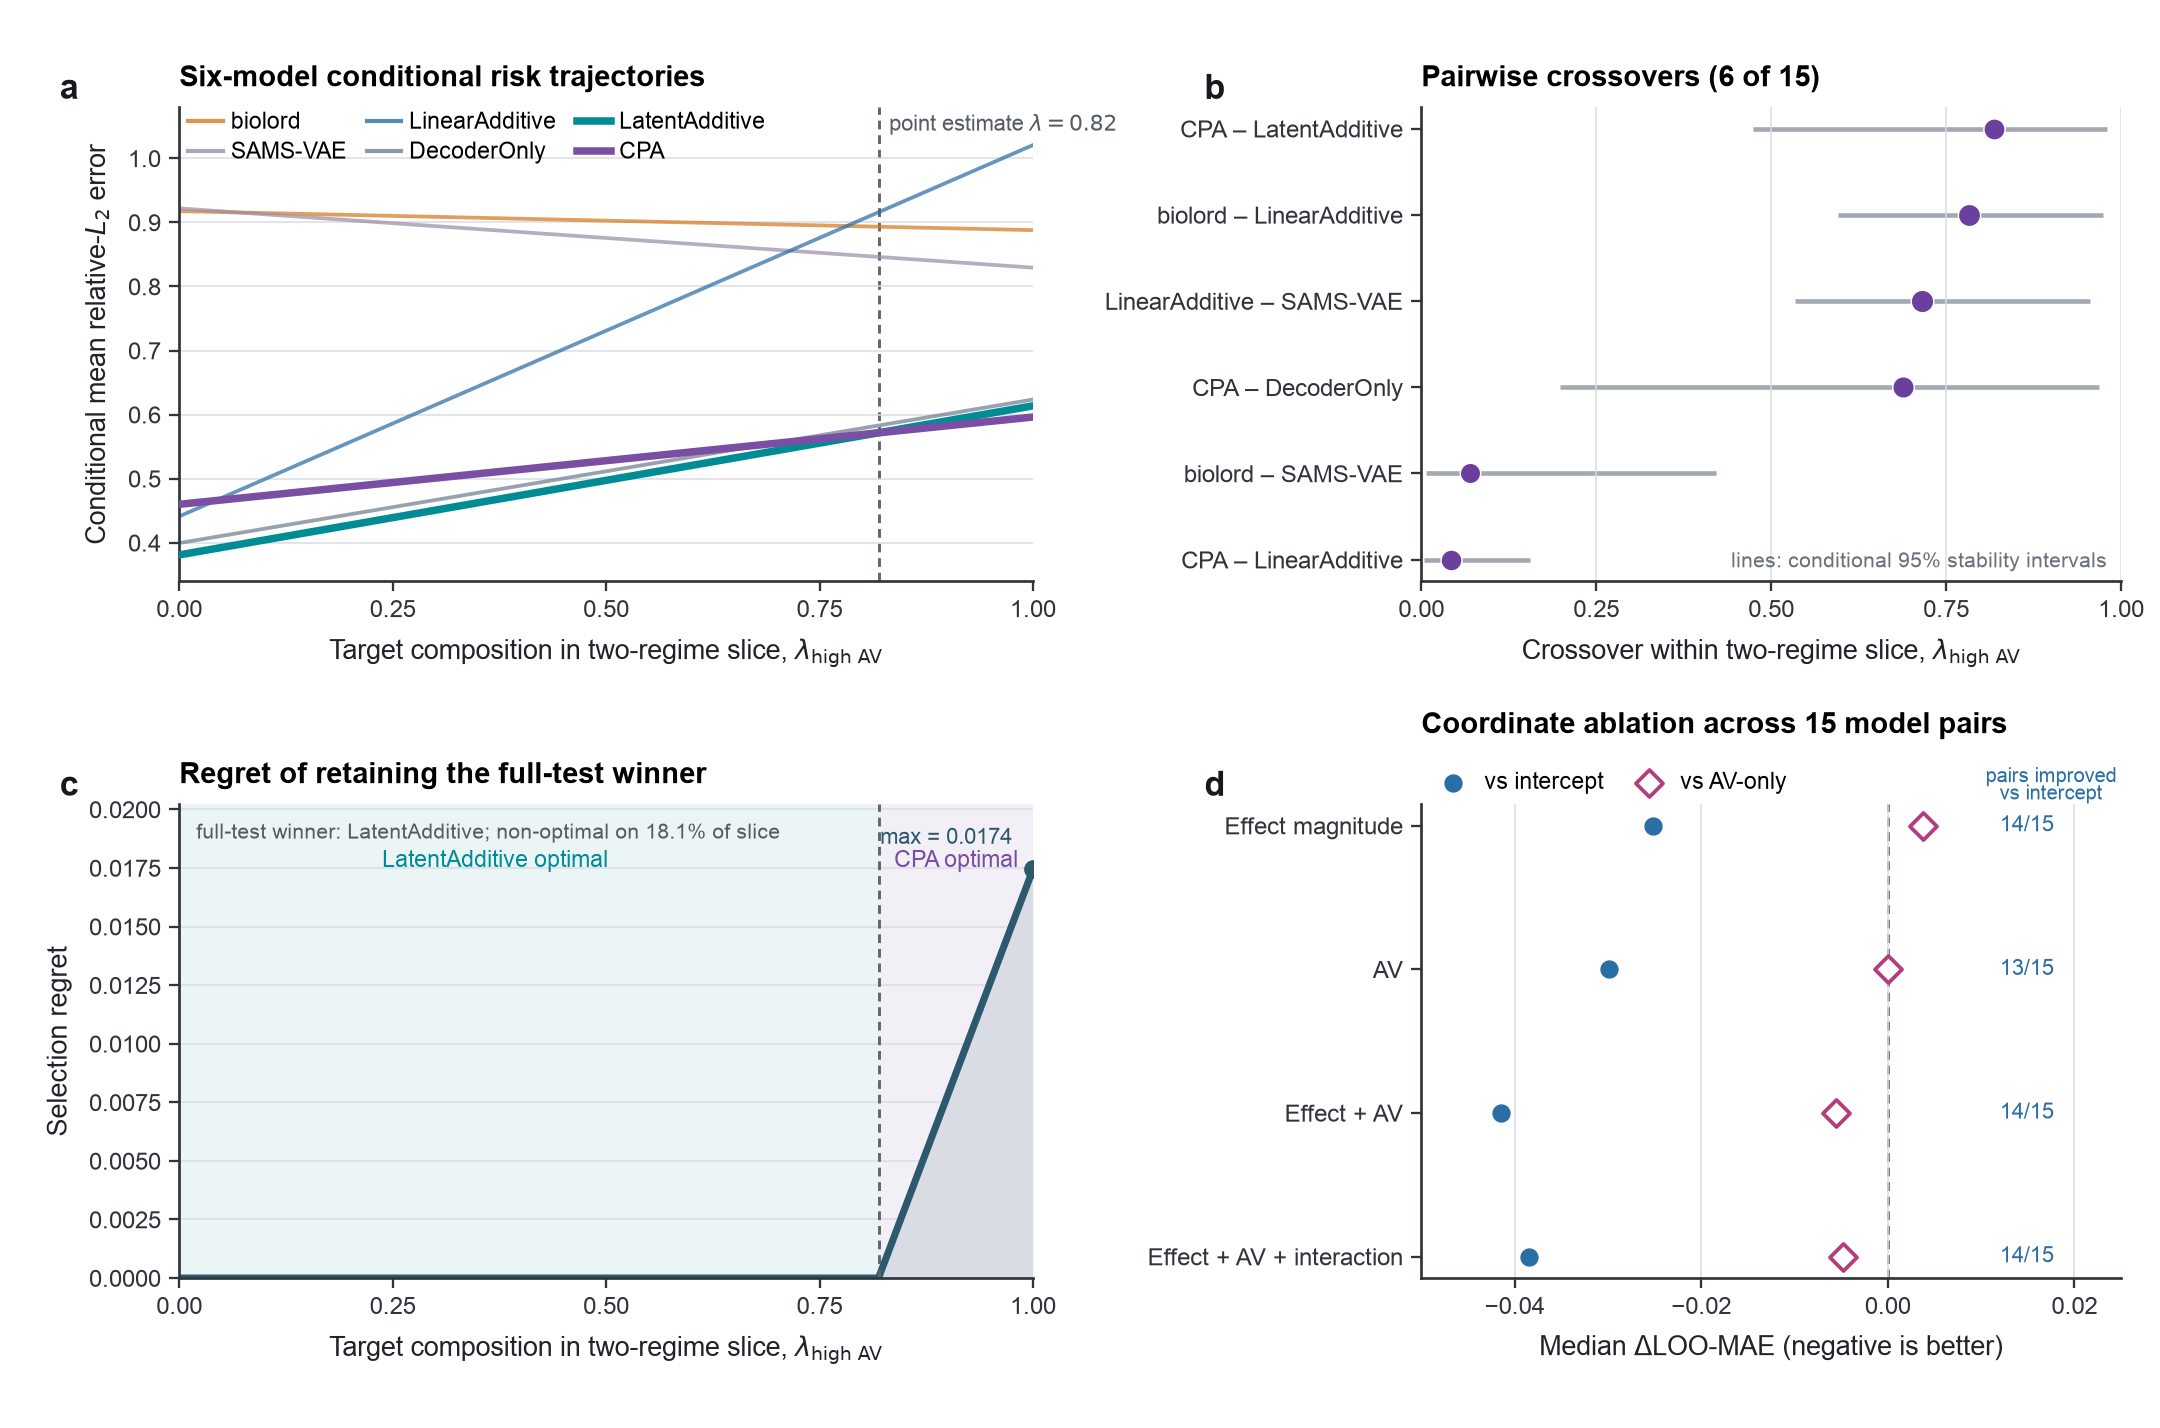
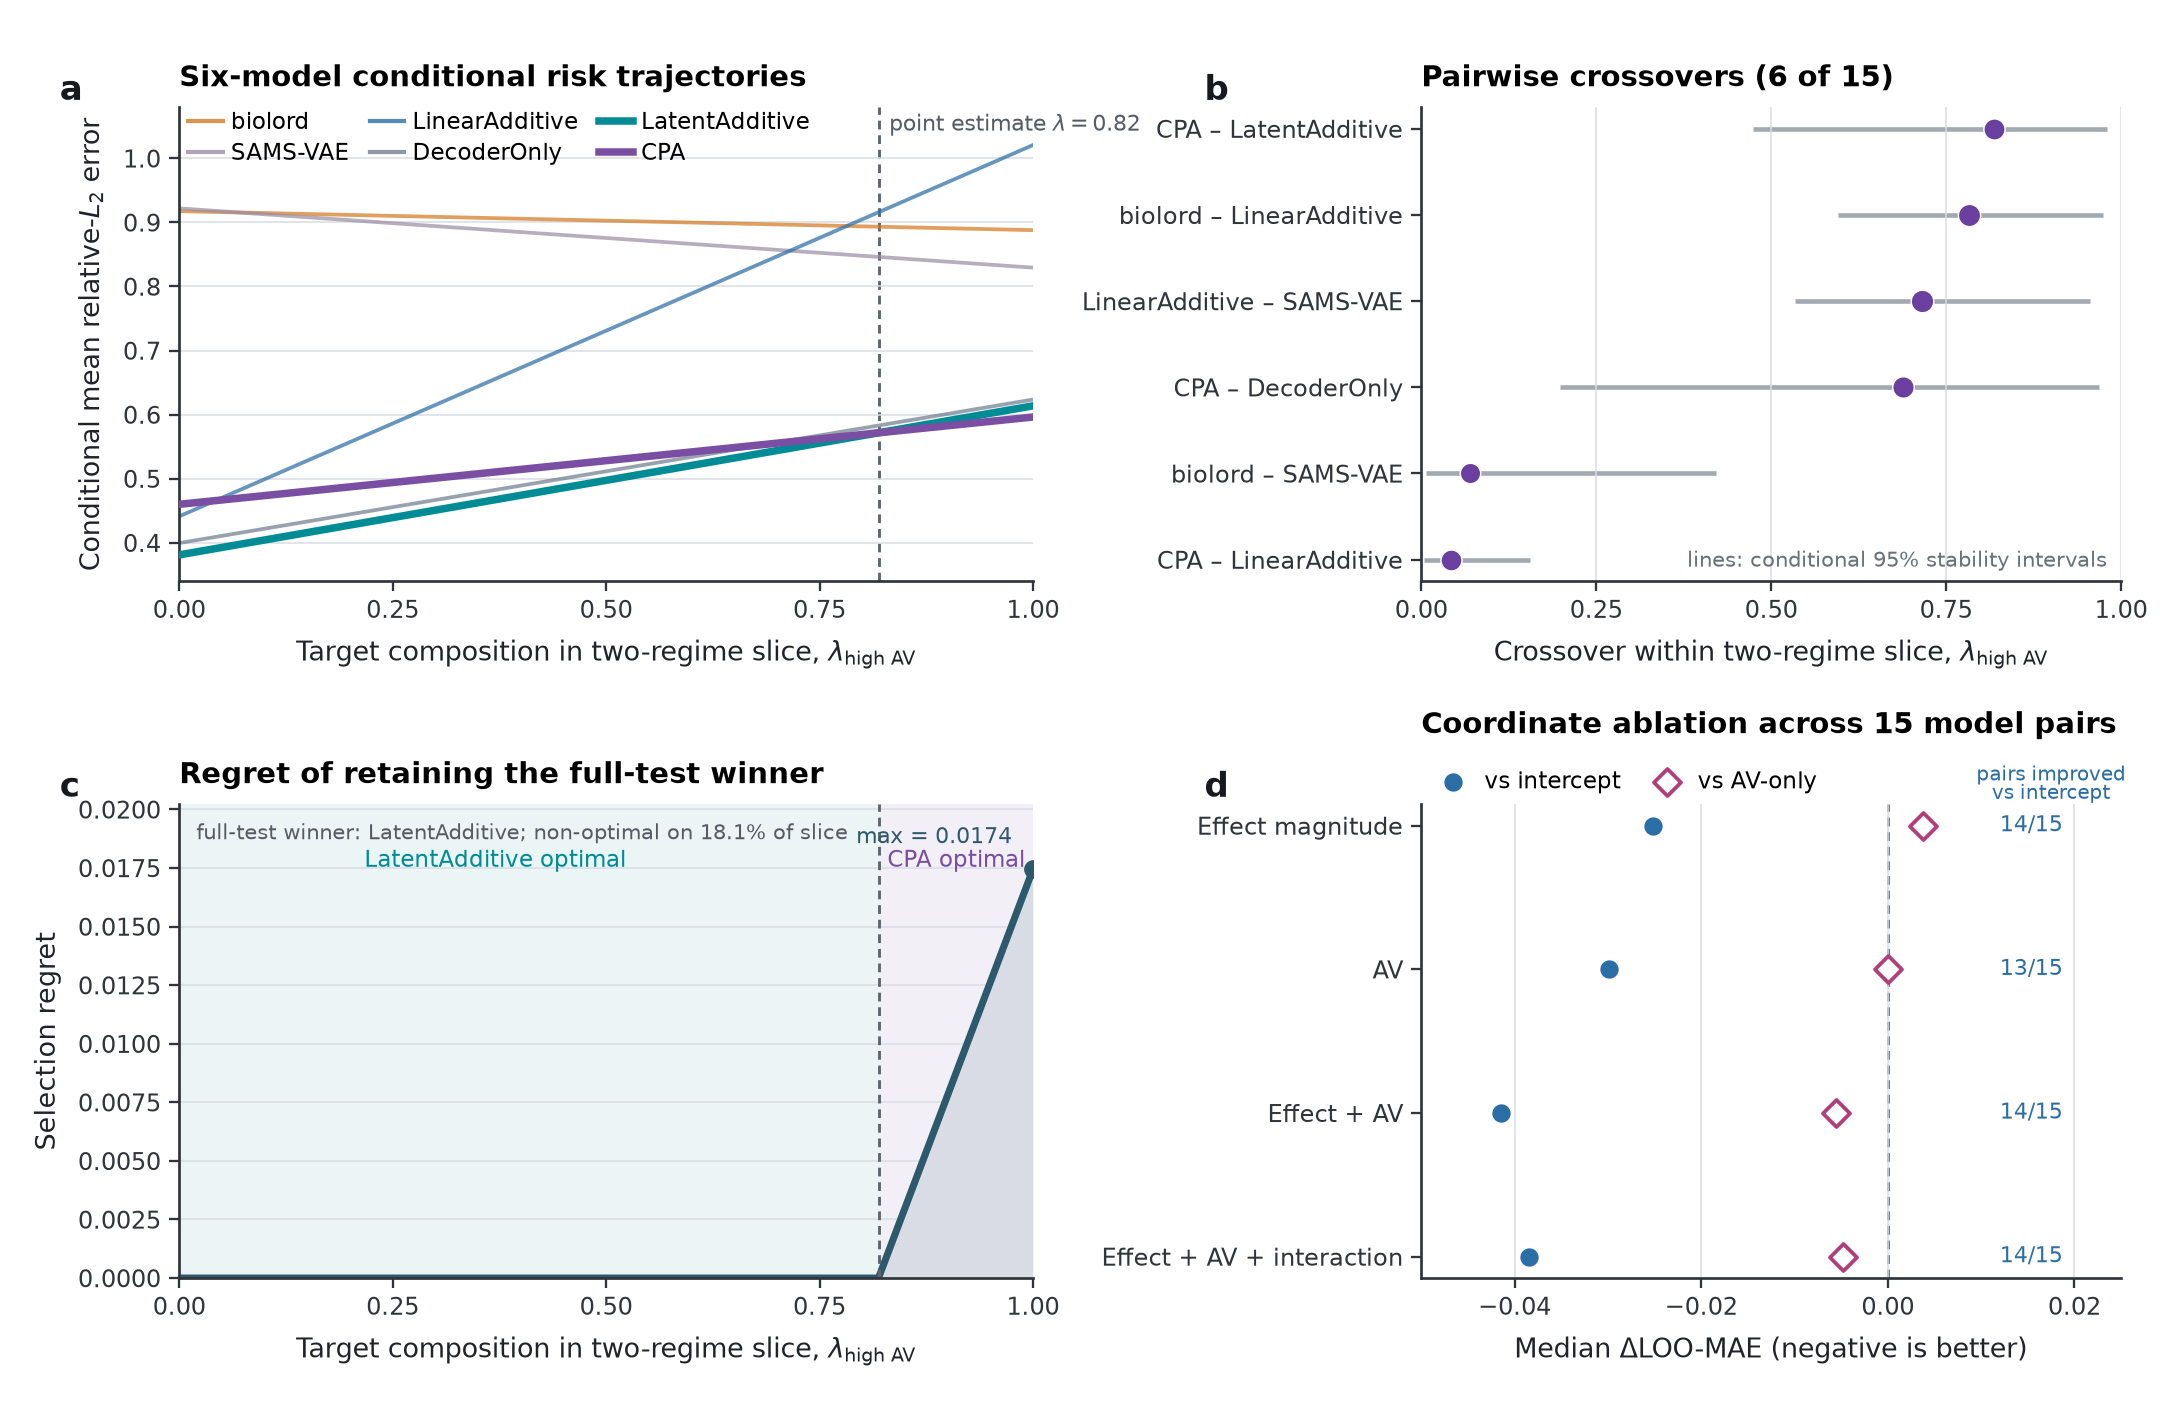
ci: make composition preview verification cross-platform

diff --git a/scripts/verify_figure_preview.py b/scripts/verify_figure_preview.py
@@ -1,0 +1,155 @@
+#!/usr/bin/env python3
+"""Verify a regenerated PNG preview by decoded visual content.
+
+PNG files are containers: byte-level equality can fail when encoders write
+different ancillary metadata, and Matplotlib can round the declared physical
+size by one pixel on different platforms.  This verifier therefore decodes the
+images, checks their dimensions against the figure contract, normalizes the
+one-pixel size variation, and compares the rendered RGB content.  It does not
+weaken the byte-exact checks applied separately to the scientific TSV outputs.
+"""
+
+from __future__ import annotations
+
+import argparse
+import json
+from pathlib import Path
+
+import numpy as np
+from PIL import Image
+
+
+EXPECTED_SIZE = (2161, 1429)
+DIMENSION_TOLERANCE_PX = 1
+NORMALIZED_WIDTH_PX = 720
+MAX_NORMALIZED_MAE = 0.02
+MIN_INK_CORRELATION = 0.95
+MAX_FOREGROUND_FRACTION_DELTA = 0.02
+
+
+class FigurePreviewError(ValueError):
+    """Raised when a rendered preview violates the visual contract."""
+
+
+def _load_rgb(path: Path) -> tuple[Image.Image, tuple[int, int]]:
+    if not path.is_file():
+        raise FigurePreviewError(f"PNG preview is missing: {path}")
+    try:
+        with Image.open(path) as source:
+            source.load()
+            size = source.size
+            rgba = source.convert("RGBA")
+    except Exception as exc:  # Pillow supplies format-specific exceptions.
+        raise FigurePreviewError(f"PNG preview cannot be decoded: {path}") from exc
+
+    background = Image.new("RGBA", rgba.size, (255, 255, 255, 255))
+    return Image.alpha_composite(background, rgba).convert("RGB"), size
+
+
+def _within_expected_size(size: tuple[int, int], expected: tuple[int, int]) -> bool:
+    return all(
+        abs(observed - declared) <= DIMENSION_TOLERANCE_PX
+        for observed, declared in zip(size, expected, strict=True)
+    )
+
+
+def _normalized_array(image: Image.Image, expected: tuple[int, int]) -> np.ndarray:
+    height = round(NORMALIZED_WIDTH_PX * expected[1] / expected[0])
+    resized = image.resize((NORMALIZED_WIDTH_PX, height), Image.Resampling.LANCZOS)
+    return np.asarray(resized, dtype=np.float32) / 255.0
+
+
+def compare_previews(
+    candidate_path: Path,
+    reference_path: Path,
+    *,
+    expected_size: tuple[int, int] = EXPECTED_SIZE,
+) -> dict[str, object]:
+    """Compare decoded previews and return machine-readable quality metrics."""
+
+    candidate, candidate_size = _load_rgb(candidate_path)
+    reference, reference_size = _load_rgb(reference_path)
+    if not _within_expected_size(candidate_size, expected_size):
+        raise FigurePreviewError(
+            f"candidate dimensions {candidate_size} violate expected {expected_size} "
+            f"±{DIMENSION_TOLERANCE_PX} px"
+        )
+    if not _within_expected_size(reference_size, expected_size):
+        raise FigurePreviewError(
+            f"reference dimensions {reference_size} violate expected {expected_size} "
+            f"±{DIMENSION_TOLERANCE_PX} px"
+        )
+
+    candidate_rgb = _normalized_array(candidate, expected_size)
+    reference_rgb = _normalized_array(reference, expected_size)
+    absolute_difference = np.abs(candidate_rgb - reference_rgb)
+    normalized_mae = float(absolute_difference.mean())
+
+    luminance_weights = np.asarray([0.2126, 0.7152, 0.0722], dtype=np.float32)
+    candidate_ink = 1.0 - candidate_rgb @ luminance_weights
+    reference_ink = 1.0 - reference_rgb @ luminance_weights
+    candidate_centered = candidate_ink.ravel() - float(candidate_ink.mean())
+    reference_centered = reference_ink.ravel() - float(reference_ink.mean())
+    denominator = float(
+        np.linalg.norm(candidate_centered) * np.linalg.norm(reference_centered)
+    )
+    ink_correlation = (
+        float(np.dot(candidate_centered, reference_centered) / denominator)
+        if denominator > 0
+        else -1.0
+    )
+
+    foreground_threshold = 8.0 / 255.0
+    candidate_foreground = float((candidate_ink > foreground_threshold).mean())
+    reference_foreground = float((reference_ink > foreground_threshold).mean())
+    foreground_fraction_delta = abs(candidate_foreground - reference_foreground)
+
+    failures: list[str] = []
+    if normalized_mae > MAX_NORMALIZED_MAE:
+        failures.append(
+            f"normalized RGB MAE {normalized_mae:.6f} exceeds {MAX_NORMALIZED_MAE:.6f}"
+        )
+    if ink_correlation < MIN_INK_CORRELATION:
+        failures.append(
+            f"ink correlation {ink_correlation:.6f} is below {MIN_INK_CORRELATION:.6f}"
+        )
+    if foreground_fraction_delta > MAX_FOREGROUND_FRACTION_DELTA:
+        failures.append(
+            "foreground fraction delta "
+            f"{foreground_fraction_delta:.6f} exceeds "
+            f"{MAX_FOREGROUND_FRACTION_DELTA:.6f}"
+        )
+    if failures:
+        raise FigurePreviewError("; ".join(failures))
+
+    return {
+        "status": "FIGURE_PREVIEW_PASS",
+        "candidate_size": list(candidate_size),
+        "reference_size": list(reference_size),
+        "expected_size": list(expected_size),
+        "dimension_tolerance_px": DIMENSION_TOLERANCE_PX,
+        "normalized_rgb_mae": normalized_mae,
+        "ink_correlation": ink_correlation,
+        "candidate_foreground_fraction": candidate_foreground,
+        "reference_foreground_fraction": reference_foreground,
+        "foreground_fraction_delta": foreground_fraction_delta,
+        "comparison_scope": "decoded pixels and dimensions; PNG metadata ignored",
+    }
+
+
+def main() -> int:
+    parser = argparse.ArgumentParser(description=__doc__)
+    parser.add_argument("--candidate", type=Path, required=True)
+    parser.add_argument("--reference", type=Path, required=True)
+    args = parser.parse_args()
+    try:
+        result = compare_previews(args.candidate, args.reference)
+    except FigurePreviewError as exc:
+        print(f"FIGURE_PREVIEW_INVALID\n- {exc}")
+        return 2
+    print(json.dumps(result, indent=2, sort_keys=True))
+    return 0
+
+
+if __name__ == "__main__":
+    raise SystemExit(main())

diff --git a/tests/test_figure_preview.py b/tests/test_figure_preview.py
@@ -1,0 +1,77 @@
+from __future__ import annotations
+
+from pathlib import Path
+import sys
+
+from PIL import Image, ImageDraw, PngImagePlugin
+import pytest
+
+
+ROOT = Path(__file__).resolve().parents[1]
+SCRIPTS = ROOT / "scripts"
+if str(SCRIPTS) not in sys.path:
+    sys.path.insert(0, str(SCRIPTS))
+
+from verify_figure_preview import FigurePreviewError, compare_previews  # noqa: E402
+
+
+def _preview(size: tuple[int, int] = (100, 60)) -> Image.Image:
+    image = Image.new("RGB", size, "white")
+    draw = ImageDraw.Draw(image)
+    draw.rectangle((8, 8, 46, 28), fill="#008C95")
+    draw.line((10, 50, 90, 34), fill="#7A4EA3", width=3)
+    return image
+
+
+def _save(image: Image.Image, path: Path, metadata: str) -> None:
+    pnginfo = PngImagePlugin.PngInfo()
+    pnginfo.add_text("Software", metadata)
+    image.save(path, pnginfo=pnginfo)
+
+
+def test_metadata_difference_does_not_fail_visual_comparison(tmp_path):
+    reference = tmp_path / "reference.png"
+    candidate = tmp_path / "candidate.png"
+    image = _preview()
+    _save(image, reference, "encoder-a")
+    _save(image, candidate, "encoder-b")
+    assert reference.read_bytes() != candidate.read_bytes()
+
+    result = compare_previews(candidate, reference, expected_size=(100, 60))
+
+    assert result["status"] == "FIGURE_PREVIEW_PASS"
+    assert result["normalized_rgb_mae"] == pytest.approx(0.0)
+    assert result["comparison_scope"].startswith("decoded pixels")
+
+
+def test_one_pixel_platform_rounding_is_normalized(tmp_path):
+    reference = tmp_path / "reference.png"
+    candidate = tmp_path / "candidate.png"
+    image = _preview()
+    _save(image, reference, "reference")
+    _save(image.resize((101, 61), Image.Resampling.LANCZOS), candidate, "candidate")
+
+    result = compare_previews(candidate, reference, expected_size=(100, 60))
+
+    assert result["candidate_size"] == [101, 61]
+    assert result["reference_size"] == [100, 60]
+
+
+def test_blank_or_wrong_preview_is_rejected(tmp_path):
+    reference = tmp_path / "reference.png"
+    candidate = tmp_path / "candidate.png"
+    _save(_preview(), reference, "reference")
+    _save(Image.new("RGB", (100, 60), "white"), candidate, "candidate")
+
+    with pytest.raises(FigurePreviewError, match="ink correlation"):
+        compare_previews(candidate, reference, expected_size=(100, 60))
+
+
+def test_dimension_drift_beyond_contract_is_rejected(tmp_path):
+    reference = tmp_path / "reference.png"
+    candidate = tmp_path / "candidate.png"
+    _save(_preview(), reference, "reference")
+    _save(_preview((103, 60)), candidate, "candidate")
+
+    with pytest.raises(FigurePreviewError, match="candidate dimensions"):
+        compare_previews(candidate, reference, expected_size=(100, 60))

diff --git a/scripts/plot_benchmark_composition.py b/scripts/plot_benchmark_composition.py
@@ -67,7 +67,9 @@ def _configure_matplotlib() -> None:
     mpl.rcParams.update(
         {
             "font.family": "sans-serif",
-            "font.sans-serif": ["Arial", "Helvetica", "DejaVu Sans", "sans-serif"],
+            # DejaVu Sans ships with Matplotlib.  Pinning it avoids platform-
+            # dependent fallback to Arial on macOS and DejaVu Sans on Linux.
+            "font.sans-serif": ["DejaVu Sans"],
             "font.size": 6.2,
             "axes.labelsize": 6.4,
             "axes.titlesize": 7.0,